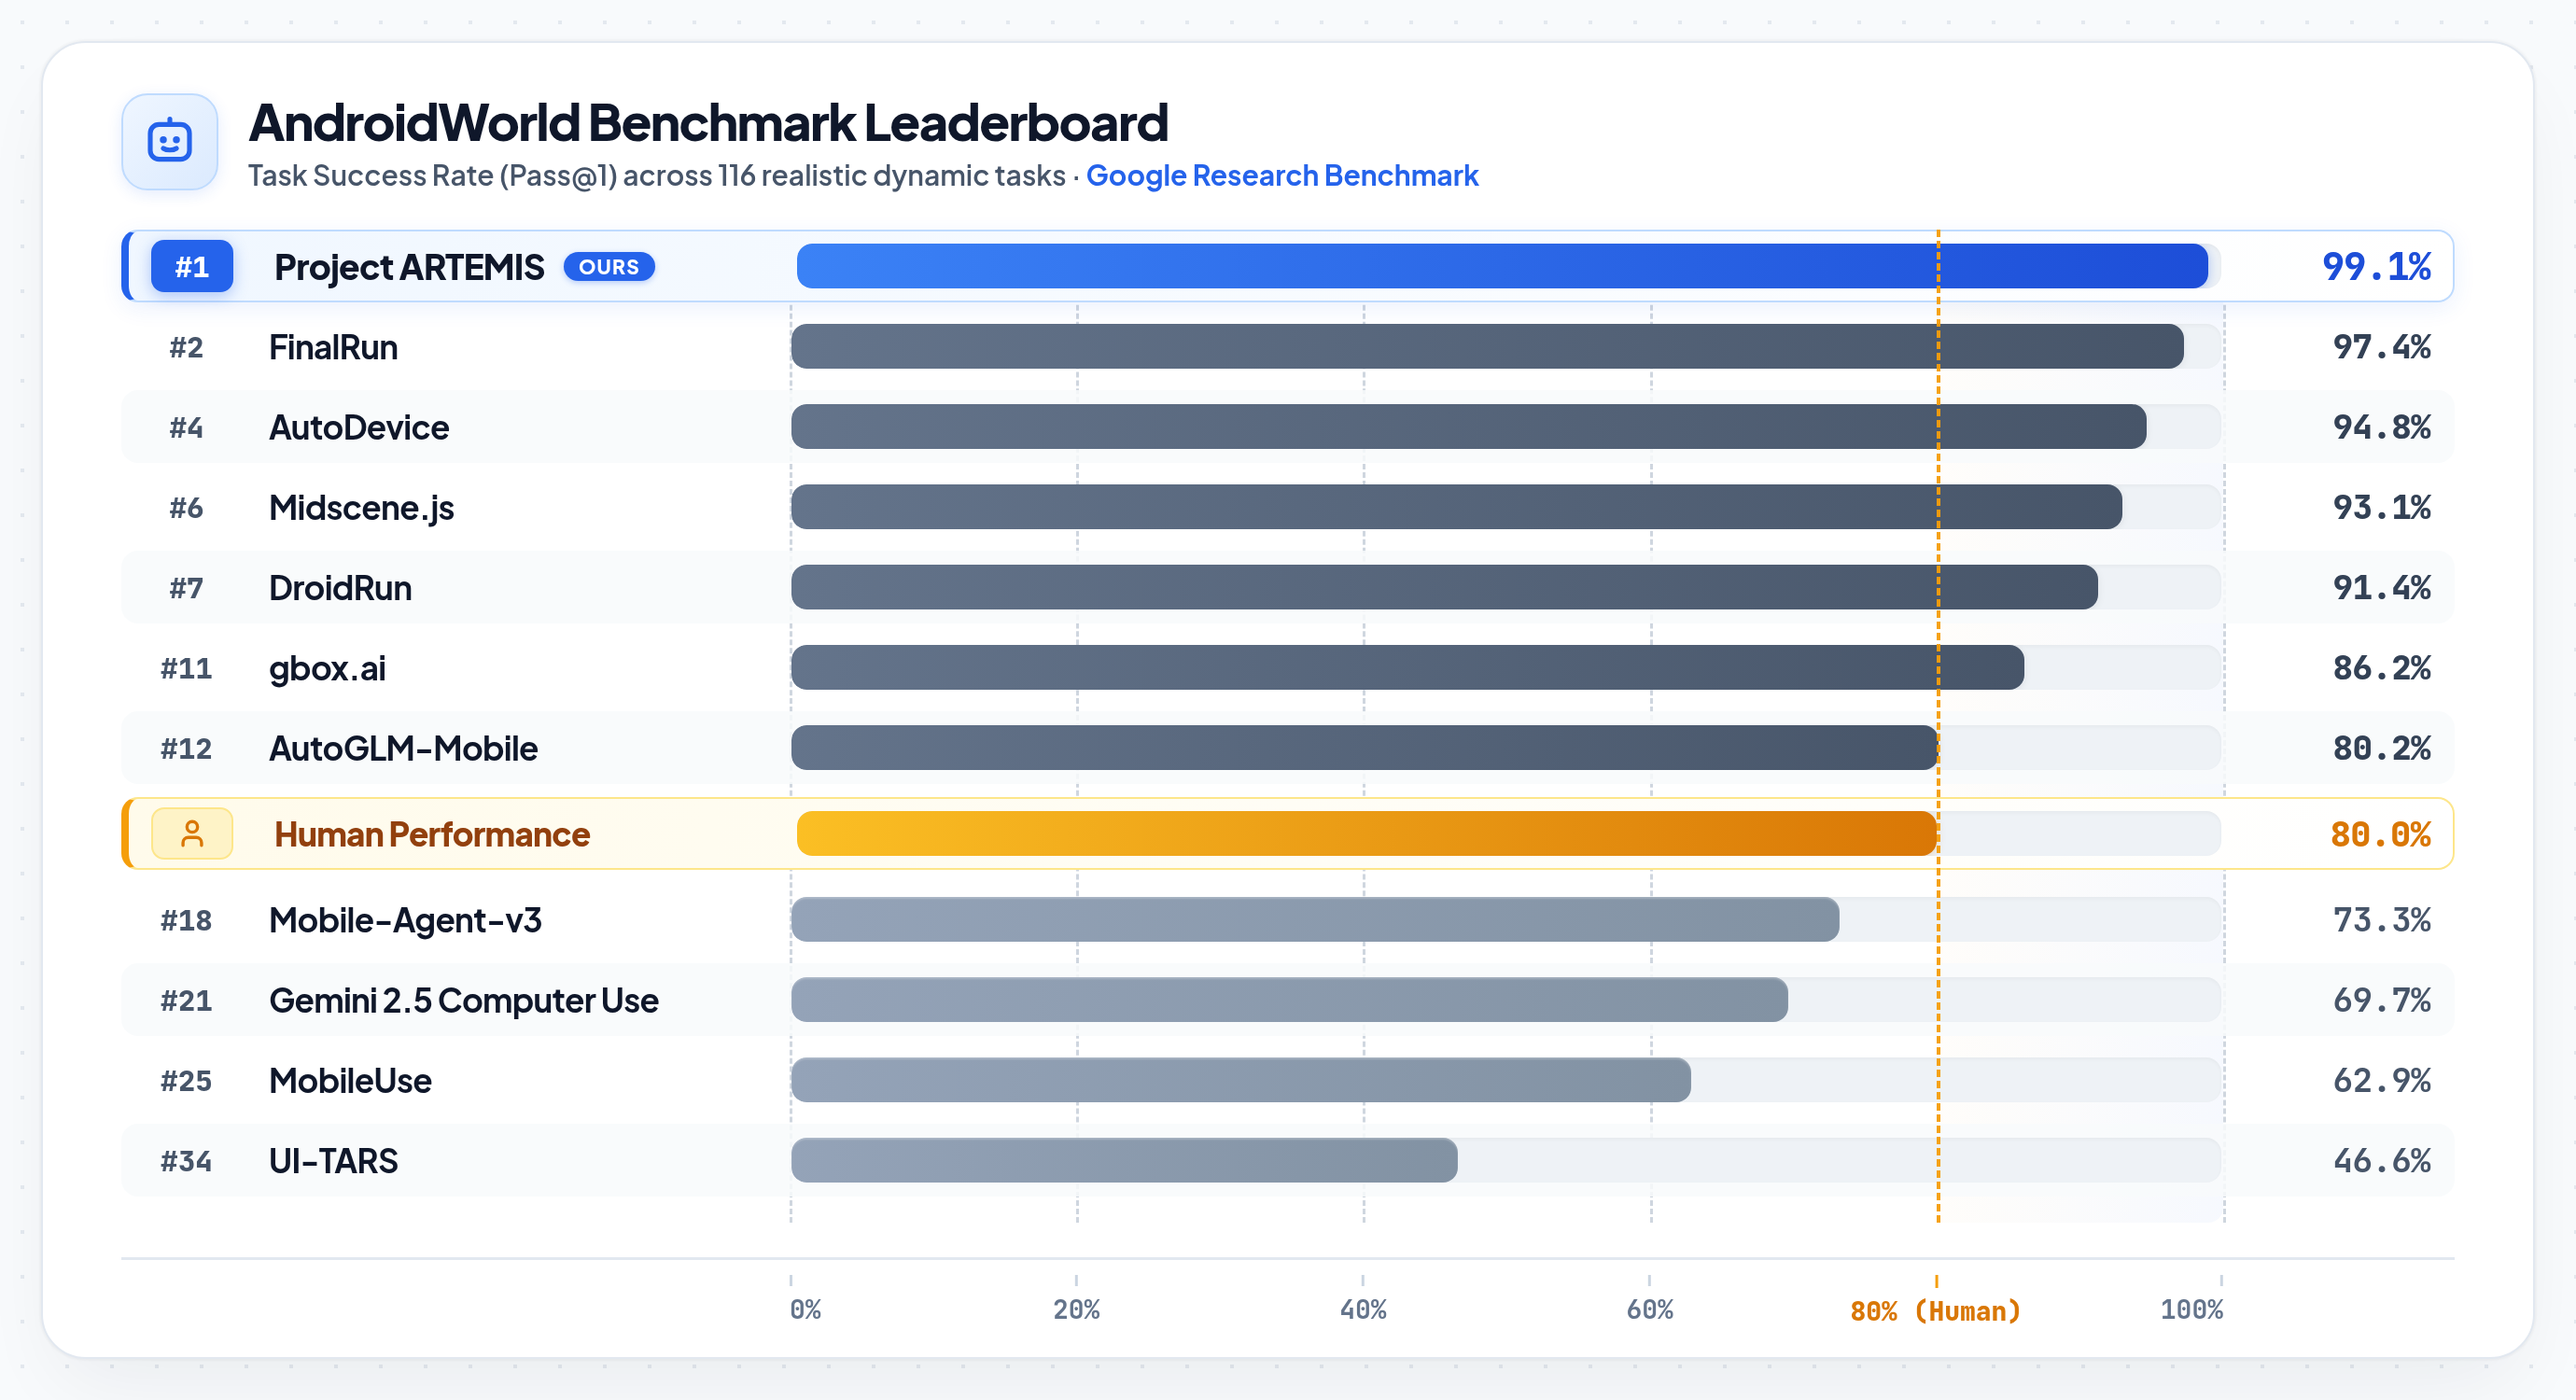
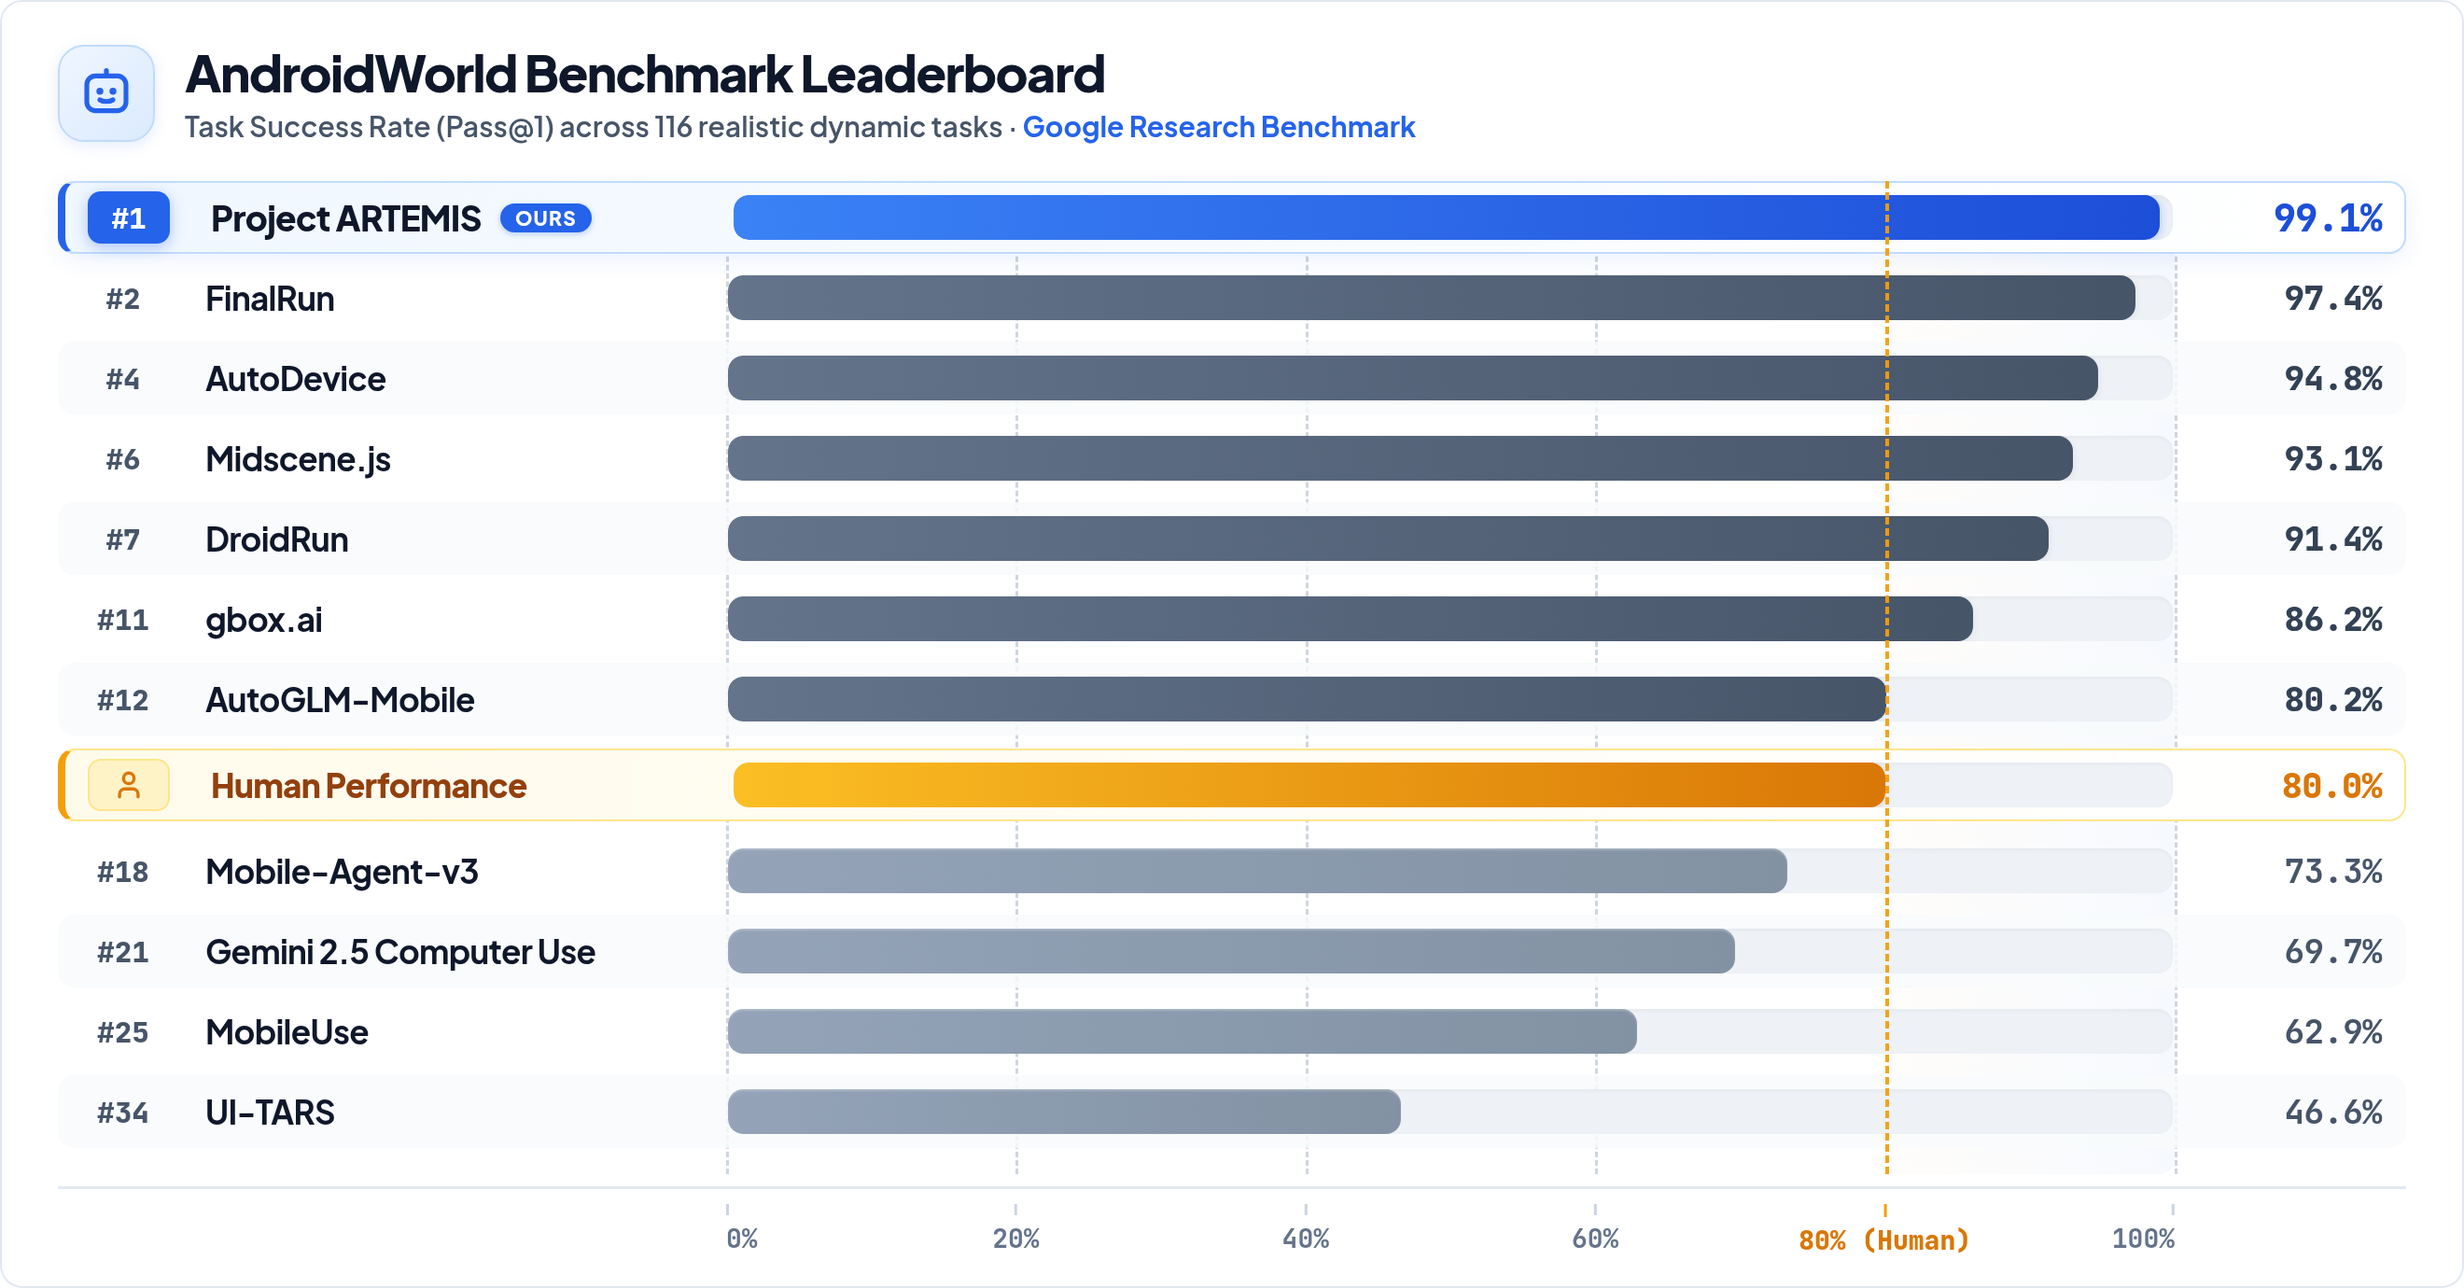
docs: remove outer canvas padding from leaderboard to match architecture diagram

diff --git a/README.md b/README.md
@@ -260,7 +260,7 @@ if __name__ == "__main__":
 Evaluated on [AndroidWorld](https://github.com/google-research/android_world) — Google Research's gold-standard benchmark spanning 20+ real apps and 100+ complex multi-step tasks: **Artemis demonstrated exceptional robustness across the entire benchmark suite, achieving a 99%+ completion rate.**
 
 <p align="center">
-  <img src="./docs/assets/androidworld_leaderboard.png?v=1" alt="AndroidWorld Benchmark Comparison" width="85%" />
+  <img src="./docs/assets/androidworld_leaderboard.png?v=2" alt="AndroidWorld Benchmark Comparison" width="100%" />
 </p>
 
 ## 🚀 How ARTEMIS is Architected

diff --git a/README_CN.md b/README_CN.md
@@ -263,7 +263,7 @@ if __name__ == "__main__":
 在 Google Research 发布的业界基准评测 [AndroidWorld](https://github.com/google-research/android_world)（涵盖 20+ 款常用应用与 100+ 项复杂多步长程任务）中：**Artemis 在全套长程任务评测中展现了高鲁棒性，取得了超过 99% 的任务完成率。**
 
 <p align="center">
-  <img src="./docs/assets/androidworld_leaderboard.png?v=1" alt="AndroidWorld 评测基准对比" width="85%" />
+  <img src="./docs/assets/androidworld_leaderboard.png?v=2" alt="AndroidWorld 评测基准对比" width="100%" />
 </p>
 
 ## 🚀 ARTEMIS 是如何建构的
